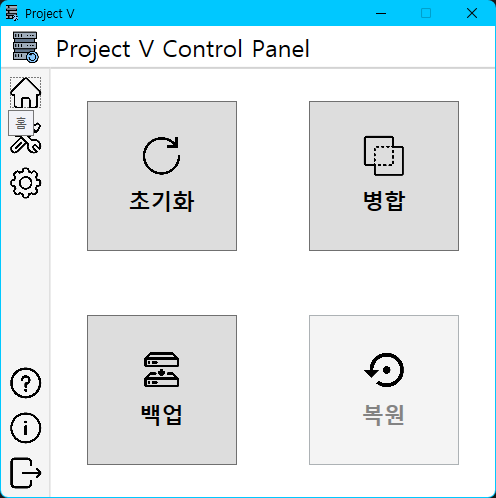
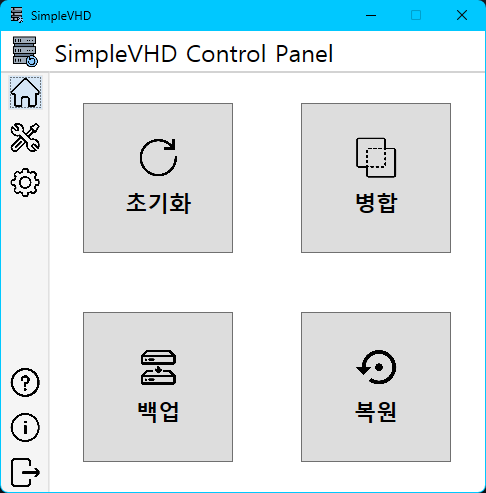
1.0-beta.4

diff --git a/README.md b/README.md
@@ -1,30 +1,30 @@
-# Project V 설명서
-이 설명서에서는 Project V를 사용하는데 필요한 모든 것을 설명합니다.
+# SimpleVHD 설명서
+이 설명서에서는 SimpleVHD를 사용하는데 필요한 모든 것을 설명합니다.
 
 ## 다운로드
-* [구글 드라이브](https://drive.google.com/drive/folders/1X5Yut1Qr4d2zLuP55-muiMcKtjPniiQe?usp=sharing)
+* [구글 드라이브](https://drive.google.com/file/d/1FjDI9t1s-3nI1ZI3bIe-IHhXQTJ0AaLH/view?usp=sharing)
 
 ## 체인지로그
 * [체인지로그](./CHANGELOG.md)
 
 ## 설치하기 전에 주의사항
-1. Project V는 VHD에 설치된 **단 하나**의 윈도우만 관리할 수 있습니다. 여러 개의 VHD를 관리할 수 없습니다.
-1. .NET Framework 4.0 또는 그 이상 버전이 설치되어 있어야 합니다.
-   1. 윈도우 8 이상에는 .NET Framework 4.0 또는 그 이상 버전이 기본으로 설치되어 있습니다.
-   1. 윈도우 7에는 .NET Framework 4.0 또는 그 이상 버전이 기본으로 설치되어 있지 않습니다. 알아서 설치하시기 바랍니다.
+1. SimpleVHD는 VHD에 설치된 **단 하나**의 윈도우만 관리할 수 있습니다. 여러 개의 VHD를 관리할 수 없습니다.
+1. .NET Framework 4.5 또는 그 이상 버전이 설치되어 있어야 합니다.
+   1. 윈도우 8 이상에는 .NET Framework 4.5 또는 그 이상 버전이 기본으로 설치되어 있습니다.
+   1. 윈도우 7에는 .NET Framework 4.5 또는 그 이상 버전이 기본으로 설치되어 있지 않습니다. 알아서 설치하시기 바랍니다.
    1. .NET Core나 .NET 5 또는 그 이상 버전이 **아닙니다**!
 1. 반드시 설치할 VHD로 부팅하셔서 설치를 진행해야 합니다. 이미 자식 VHD를 사용 중인 경우 부모 VHD로 부팅하셔야 합니다.
 1. 사용자 계정 컨트롤은 끄는 것을 권장합니다. 켜놨을 경우 사용자 계정 컨트롤 창이 표시될 수 있는데 당연히 허용해줘야 합니다.
 1. 백업 폴더는 VHD 파일이 수십 GB에 달하는 대용량이기에 NTFS 파일 시스템에 위치시켜야 합니다. exFAT나 ReFS 파일 시스템은 테스트해보지 않았으나, 되지 않을까 싶습니다.
 
 ## 설치
-1. 압축 파일을 다운받고 압축을 풉니다. **드라이브 루트에 정확히 "ProjectV" 라는 폴더가 보이게끔 풀어야 합니다.**
+1. 압축 파일을 다운받고 압축을 풉니다. **드라이브 루트에 정확히 "SimpleVHD" 라는 폴더가 보이게끔 풀어야 합니다.**
 1. Bin 폴더 안에 들어있는 Installer.exe 파일을 실행합니다.
 1. 절차에 따릅니다. 시스템이 재부팅됩니다.
 1. 설치 완료 후 취향에 따라 바탕 화면에 Control.exe의 바로 가기를 만드세요.
 
 ## 사용
-Project V 제어판(Control.exe)으로 작업을 수행할 수 있습니다. 메뉴는 세 가지로 나뉩니다.
+SimpleVHD 제어판(Control.exe)으로 작업을 수행할 수 있습니다. 메뉴는 세 가지로 나뉩니다.
 
 ### 홈
 <p align="center"><img src="./home.png" width="400px" height="400px" title="홈"/></p>
@@ -32,7 +32,7 @@ Project V 제어판(Control.exe)으로 작업을 수행할 수 있습니다. 메
 홈 메뉴에서는 가장 자주 사용되는 네 가지 메뉴를 사용할 수 있습니다.
 
 #### 백업
-백업 작업은 전체 VHD를 통채로 백업합니다. 전체를 백업하기 때문에 용량이 크고, 시간도 오래 걸립니다.
+백업 작업은 전체 VHD를 통채로 백업합니다. 전체를 백업하기 때문에 용량이 크고, 시간도 오래 걸립니다. 차등 스타일을 사용하더라도 주기적으로 전체 백업을 수행하시는 것을 추천합니다.
 
 #### 복원
 복원 작업은 통채로 백업한 VHD를 복원합니다. 전체를 복원하기 때문에 시간이 오래 걸립니다.
@@ -54,7 +54,7 @@ Project V 제어판(Control.exe)으로 작업을 수행할 수 있습니다. 메
 VHDX 포맷은 부모 VHD의 변경이 발생하면 자식 VHD도 새로 만들어야 하기에 초기화 대신 재구축 작업이 진행됩니다.
 
 #### 작업기 부팅
-Project V 작업기로 부팅합니다.
+SimpleVHD 작업기로 부팅합니다.
 
 #### VHD 확장
 VHD의 최대 크기를 확장합니다.
@@ -65,10 +65,10 @@ VHD의 최대 크기를 확장합니다.
 VHD의 형식(동적 확장 / 고정 크기)이나 포맷(VHD / VHDX)을 변환합니다.
 
 #### 운영 스타일 전환
-Project V의 운영 스타일을 전환합니다.
+SimpleVHD의 운영 스타일을 전환합니다.
 
-#### Project V 제거
-Project V를 제거합니다.
+#### SimpleVHD 제거
+SimpleVHD를 제거합니다.
 
 ### 옵션
 <p align="center"><img src="./options.png" width="400px" height="400px" title="옵션"/></p>
@@ -77,7 +77,7 @@ Project V를 제거합니다.
 
 백업, 복원, 초기화, 병합 작업 후 재부팅하는 대신 시스템을 종료할 수 있습니다. 이 옵션은 각 작업 메뉴에서도 가능합니다.
 
-또한 부팅 메뉴에서 Project V 작업기 항목을 숨길 수도 있습니다. 그러나 이 경우 문제가 발생하여 윈도우 진입이 불가능해질 경우 작업기로 부팅하기가 어려워집니다.
+또한 부팅 메뉴에서 SimpleVHD 작업기 항목을 숨길 수도 있습니다. 그러나 이 경우 문제가 발생하여 윈도우 진입이 불가능해질 경우 작업기로 부팅하기가 어려워집니다.
 
 ### 작업기
 <p align="center"><img src="./processor1.png" title="작업기 메뉴"/></p>
@@ -103,4 +103,4 @@ Project V를 제거합니다.
 차등 스타일은 또 **수동 초기화**와 **자동 초기화**로 나뉘는데 수동 초기화는 말 그대로 필요할 때마다 수동으로 초기화 하는 방식이고 자동 초기화는 부팅할 때 마다 다른 VHD로 부팅하여 자동으로 다른 VHD를 초기화하는 방식입니다.
 
 ## 버그 제보하기
-버그는 [이메일](mailto:na1307@outlook.kr)로 제보하거나 [GitHub 이슈](https://github.com/na1307/ProjectV/issues)에서 제보해 주시기 바랍니다.
+버그는 [이메일](mailto:na1307@outlook.kr)로 제보하거나 [GitHub 이슈](https://github.com/na1307/SimpleVHD/issues)에서 제보해 주시기 바랍니다.

diff --git a/PEBuild.md b/PEBuild.md
@@ -1,0 +1,94 @@
+# PE 빌드하기
+SimpleVHD의 핵심은 윈도우 PE입니다. 제어판은 그냥 사용을 쉽게 해주는 도구일 뿐이고 PE에서 거의 모든 작업이 이루어집니다.
+
+이 문서에서는 SimpleVHD를 위한 PE를 만드는 과정을 설명합니다. 만약 ARM64 장치를 사용하고 계시는 분들은 AMD64 버전의 PE만 제공하기 때문에 PE를 직접 빌드하셔야 합니다. 제가 만든 PE가 걱정되거나 ARM64 장치를 사용하고 계시는 분들은 직접 만들어서 쓰시면 됩니다. 이 과정은 제가 SimpleVHD.wim 파일을 만든 것과 **100% 동일한 방법**입니다.
+
+글로만 설명하겠습니다. 이 글은 초보를 위한 것이 아닙니다.
+
+## 준비물
+1. Windows ADK 및 PE 추가 기능<br/>어떤 버전을 쓰든 상관 없습니다. 다만 ARM64 버전의 PE는 1709 이상 버전에만 포함되어 있습니다. ADK와 PE는 버전을 맞춰 주시는 것이 좋습니다.
+
+## ADK 설치
+https://learn.microsoft.com/ko-kr/windows-hardware/get-started/adk-install
+
+위 사이트에서 ADK와 PE 추가 기능을 다운받고 설치합니다. ADK는 **배포 도구**만 설치하면 됩니다.
+
+설치를 완료하면 시작 메뉴의 Windows Kits 폴더에 **배포 및 이미징 도구 환경**이라는 항목이 있습니다. 관리자 권한으로 실행합니다.
+
+## PE 복사
+이제 PE를 복사하겠습니다. 명령 프롬프트 창이 하나 떠 있을텐데 아래와 같이 입력합니다.
+
+```batch
+copype amd64 D:\PE
+```
+
+amd64는 amd64 버전의 PE를 만들 것이기 때문이고 arm64라면 arm64라고 치면 됩니다. 세번째 부분은 경로입니다. 앞으로도 계속 나올텐데 다른 경로를 입력했다면 아래 명령들의 <code>D:\PE</code> 부분을 그 경로로 대체하시면 됩니다.
+
+## 패키지 파일 복사
+언어 팩 등의 패키지 파일을 복사합니다. 일반적으로는 <code>C:\Program Files (x86)\Windows Kits\10\Assessment and Deployment Kit\Windows Preinstallation Environment\amd64\WinPE_OCs</code> 경로에 있습니다. 물론 arm64라면 amd64를 arm64로 바꾸면 됩니다. 여기서 다음 파일들을 <code>D:\PE\packages</code> 폴더로 복사합니다.
+
+1. WinPE-FontSupport-KO-KR.cab
+1. WinPE-NetFx.cab
+1. WinPE-WMI.cab
+
+ko-kr 폴더에도 필요한 파일이 있습니다. 마찬가지로 <code>D:\PE\packages</code> 폴더로 복사합니다.
+
+1. lp.cab
+1. WinPE-NetFx_ko-kr.cab
+1. WinPE-WMI_ko-kr.cab
+
+## 패키지 설치 및 정리 작업
+명령 프롬프트 창에 다음 명령들을 순서대로 입력합니다.
+
+```batch
+dism /mount-image /imagefile:"D:\PE\media\sources\boot.wim" /index:1 /mountdir:"D:\PE\mount"
+dism /image:"D:\PE\mount" /add-package /packagepath:"D:\PE\packages\WinPE-FontSupport-KO-KR.cab"
+dism /image:"D:\PE\mount" /add-package /packagepath:"D:\PE\packages\lp.cab"
+dism /image:"D:\PE\mount" /add-package /packagepath:"D:\PE\packages\WinPE-WMI.cab"
+dism /image:"D:\PE\mount" /add-package /packagepath:"D:\PE\packages\WinPE-WMI_ko-kr.cab"
+dism /image:"D:\PE\mount" /add-package /packagepath:"D:\PE\packages\WinPE-NetFx.cab"
+dism /image:"D:\PE\mount" /add-package /packagepath:"D:\PE\packages\WinPE-NetFx_ko-kr.cab"
+dism /image:"D:\PE\mount" /set-allintl:ko-kr
+dism /image:"D:\PE\mount" /set-skuintldefaults:ko-kr
+dism /image:"D:\PE\mount" /remove-package /packagename:Microsoft-Windows-WinPE-LanguagePack-Package~31bf3856ad364e35~amd64~en-US~10.0.20348.1
+```
+
+PEAction.exe, SimpleVHD.dll, System.ValueTuple.dll 파일을 <code>D:\PE\mount\Windows\system32</code> 폴더에 복사합니다. 그리고 startnet.cmd 파일을 다음 내용으로 바꿉니다. 텍스트 에디터를 관리자 권한으로 열어야 합니다.
+
+```batch
+@echo off
+
+set PVDir=null
+
+for %%a in (C: D: E: F: G: H: I: J: K: L: M: N: O: P: Q: R: S: T: U: V: W: X: Y: Z:) do (
+    if exist %%a\SimpleVHD\Config.xml set PVDir=%%a\SimpleVHD\
+)
+
+if /i "%PVDir%" == "null" exit
+
+path %PVDir%Command;%path%
+
+if exist "%PVDir%Bin\PEAction.exe" (
+    start /wait %PVDir%Bin\PEAction.exe
+) else (
+    start /wait PEAction.exe
+)
+
+if %errorlevel% neq 1307 (
+    wpeutil reboot
+) else (
+    wpeutil shutdown
+)
+```
+
+그런 다음 다음 명령들을 입력합니다.
+
+```batch
+dism /unmount-image /mountdir:"D:\PE\mount" /commit
+dism /export-image /sourceimagefile:"D:\PE\media\sources\boot.wim" /sourceindex:1 /destinationimagefile:"D:\PE\SimpleVHD.wim"
+```
+
+이제 SimpleVHD.wim 파일을 사용하면 됩니다.
+
+## PE 업데이트
+SimpleVHD의 새 버전이 나오게 되면 PE를 업데이트해야 합니다. 위 과정에서 mount-image 부분을 실행하고 PEAction.exe와 SimpleVHD.dll 파일을 새 버전으로 교체하면 됩니다. 필요할 경우 startnet.cmd 파일도 교체해야할 수 있습니다.

diff --git a/CHANGELOG.md b/CHANGELOG.md
@@ -1,5 +1,13 @@
 # 체인지로그
 
+## 1.0-beta.4 (2022-11-19)
+* 이전 버전을 사용하셨던 분들에게는 제거 후 재설치를 권장합니다.
+1. SimpleVHD로 이름 결정
+1. .NET Framework 4.5로 업그레이드
+1. Processor에서 PEAction으로 이름 변경
+1. VHD 축소 기능 추가
+1. SimpleVHD 디렉토리 안에 백업 디렉토리를 포함할 수 있도록 개선
+
 ## Beta 3.1 (2022-10-16)
 1. Startup 사용자 계정 컨트롤 관련 경험 개선
 
